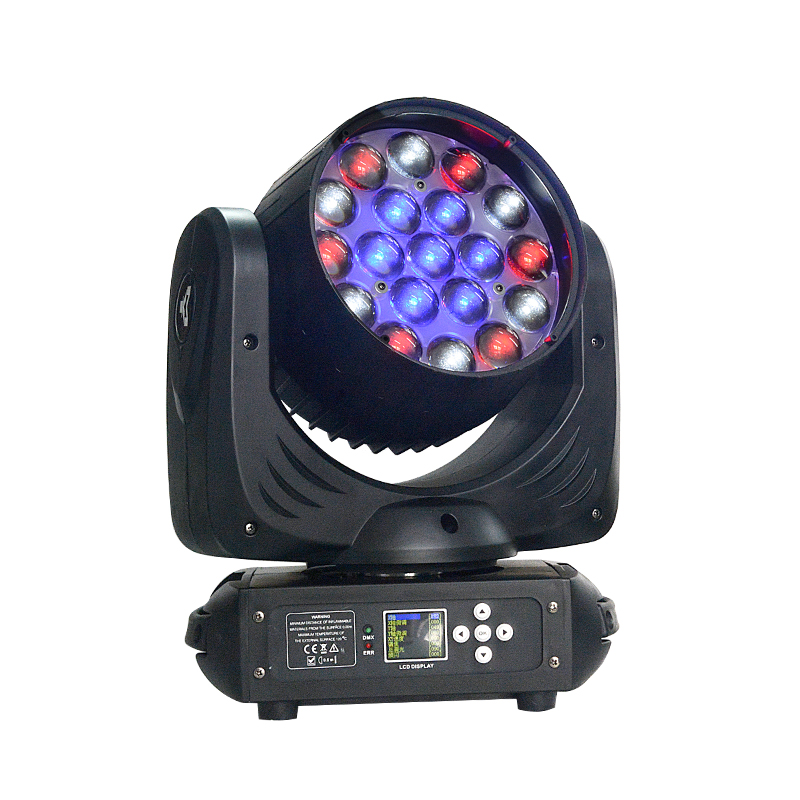
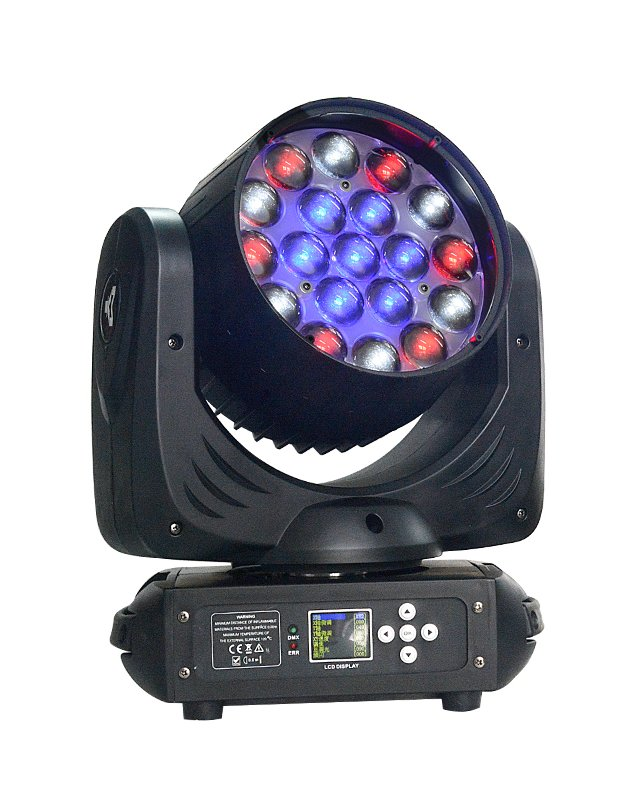
add: breadcramp in contacts and product imsge in catalog

Changed region(s): [[0.125, 0.125, 0.875, 0.9062], [0.4375, 0.6562, 0.4688, 0.6875]]

diff --git a/backend/templates/store/catalog_products.html b/backend/templates/store/catalog_products.html
@@ -33,7 +33,11 @@
         .form-control:focus{
           outline: none;
           box-shadow: none;
-          border: 2px solid gray;
+          border: 2px solid gray!important;
+        }
+        .form-select:focus{
+          outline: none;
+          box-shadow: none;
         }
       </style>
      
@@ -158,18 +162,23 @@
               {% for product in products %}
               <div class="col-md-4 mb-4">
                 <div class="card position-relative" 
-                  style="border: 0px!important;">
-                  <img class="" 
-                    src={% static 'img/Frame.png' %}
-                    alt="{{product.title}}">
+                  style="border: 0px;">
+                  <a class="" href={% url 'store:product-detail' product.slug %}>
+                    <img class="img-fluid" 
+                    {% comment %} src={% static 'img/Frame.png' %} {% endcomment %}
+                    src="{{product.product_image.url}}"
+                    alt="{{product.title}}"
+                    style="width: 100%!important;"
+                    >
+                  </a>
                   <div class="position-absolute top-0 end-0">
                     <form action="{% url 'store:add-to-liked' %}">
                       <input type="hidden" name="prod_id" value="{{product.id}}" id="product_id">
                       {% if product.id in liked_id %}
-
-                      <button type="submit" class="btn bi bi-heart-fill text-danger fa-lg my-2"></button>
+                      
+                      <button type="submit" class="btn"> <i class="bi bi-heart-fill text-danger fa-2x"></i></button>
                       {% else %}
-                      <button type="submit" class="btn bi bi-heart fa-lg my-2"></button>
+                      <button type="submit" class="btn"> <i class="bi bi-heart fa-2x"></i></button>
 
                       {% endif %}
 
@@ -178,7 +187,13 @@
                   <div class="row justify-content-between my-1">
 
                     <div class="col-auto">
-                      <p class="card-title fs-6 mb-2">{{ product.title }}</p>
+
+                      <a class="card-title fs-6 mb-2 text-decoration-none"
+                        href="{% url 'store:product-detail' product.slug %}"
+                          style="color: rgba(0,0,0, 1)!important;"
+                          onMouseOver="this.style.color='rgba(0,0,0, 0.7)'"
+                          onMouseOut="this.style.color='rgba(0,0,0, 1)'"
+                      >{{ product.title }}</a>
                       <p class="card-text">{{ product.price }} &#8381;</p>
 
                     </div>
@@ -205,14 +220,7 @@
             {% endif %}
 
             </div>
-            <form action="{% url 'store:add-to-liked' %}">
-              <input type="hidden" name="prod_id" value="{{product.id}}" id="product_id">
-              <button type="submit" class="btn btn-sm btn-outline-dark far fa-heart"></button>
-            </form>
-          </li>
-          <li class="list-inline-item m-0 p-0">
-            {% comment %} <a class="btn btn-sm btn-dark" href="{% url 'store:add-to-cart' %}">Добавить в корзину</a> {% endcomment %}
-
+           
             
             
             

diff --git a/backend/templates/store/contacts.html b/backend/templates/store/contacts.html
@@ -2,7 +2,25 @@
 {% load static %}
 
     {% block content %}
-
+    <div class="container">
+        <nav aria-label="breadcrumb">
+          <ol class="breadcrumb justify-content-lg-start my-5">
+            <li class="breadcrumb-item">
+              <a href="{% url 'store:home' %}"
+                  class="text-decoration-none"
+                  style="color: rgba(0,0,0, 0.7)!important;"
+                  onMouseOver="this.style.color='rgba(0,0,0, 1)'"
+                  onMouseOut="this.style.color='rgba(0,0,0, 0.7)'">
+                  Главная
+              </a>
+            </li>
+            <li class="breadcrumb-item active" 
+                aria-current="page"
+                style="color: rgba(0,0,0, 1)!important;"
+            >Контакты </li>
+          </ol>
+        </nav>
+      </div>
     
     <div class="container d-flex flex-column" style="height: calc(100% - 56px) ">
         <div class="row  flex-fill d-flex justify-content-start mt-5">

diff --git a/backend/store/views.py b/backend/store/views.py
@@ -59,8 +59,11 @@ def catalog_products(request):
 
     if slug:
         category = get_object_or_404(Category, slug=slug)
+        # Получаем продукты данной категории
+        products = Product.objects.filter(is_active=True, category_id=category.pk)
     else:
         category = "Все товары"
+        products = Product.objects.filter(is_active=True)
         print("SLUG", slug)
 
     liked_items = Liked.objects.filter(user=request.user)
@@ -72,8 +75,6 @@ def catalog_products(request):
 
     print("PRICE", min_price, max_price)
     print("SORTING", sorting)
-    # Получаем продукты данной категории
-    products = Product.objects.filter(is_active=True)
 
     # Применяем сортировку, если она указана
     if sorting == "low-high":

diff --git a/backend/store/urls.py b/backend/store/urls.py
@@ -16,7 +16,7 @@ urlpatterns = [
     # CONTACTS PAGE
     path("contacts/", views.contacts, name="contacts"),
     # CATALOG PAGE
-    path("catalog/product/", views.detail, name="product-detail"),
+    path("catalog/product/<slug:slug>", views.detail, name="product-detail"),
     path("catalog/", views.catalog_products, name="catalog"),
     #
     path("add-to-cart/", views.add_to_cart, name="add-to-cart"),
